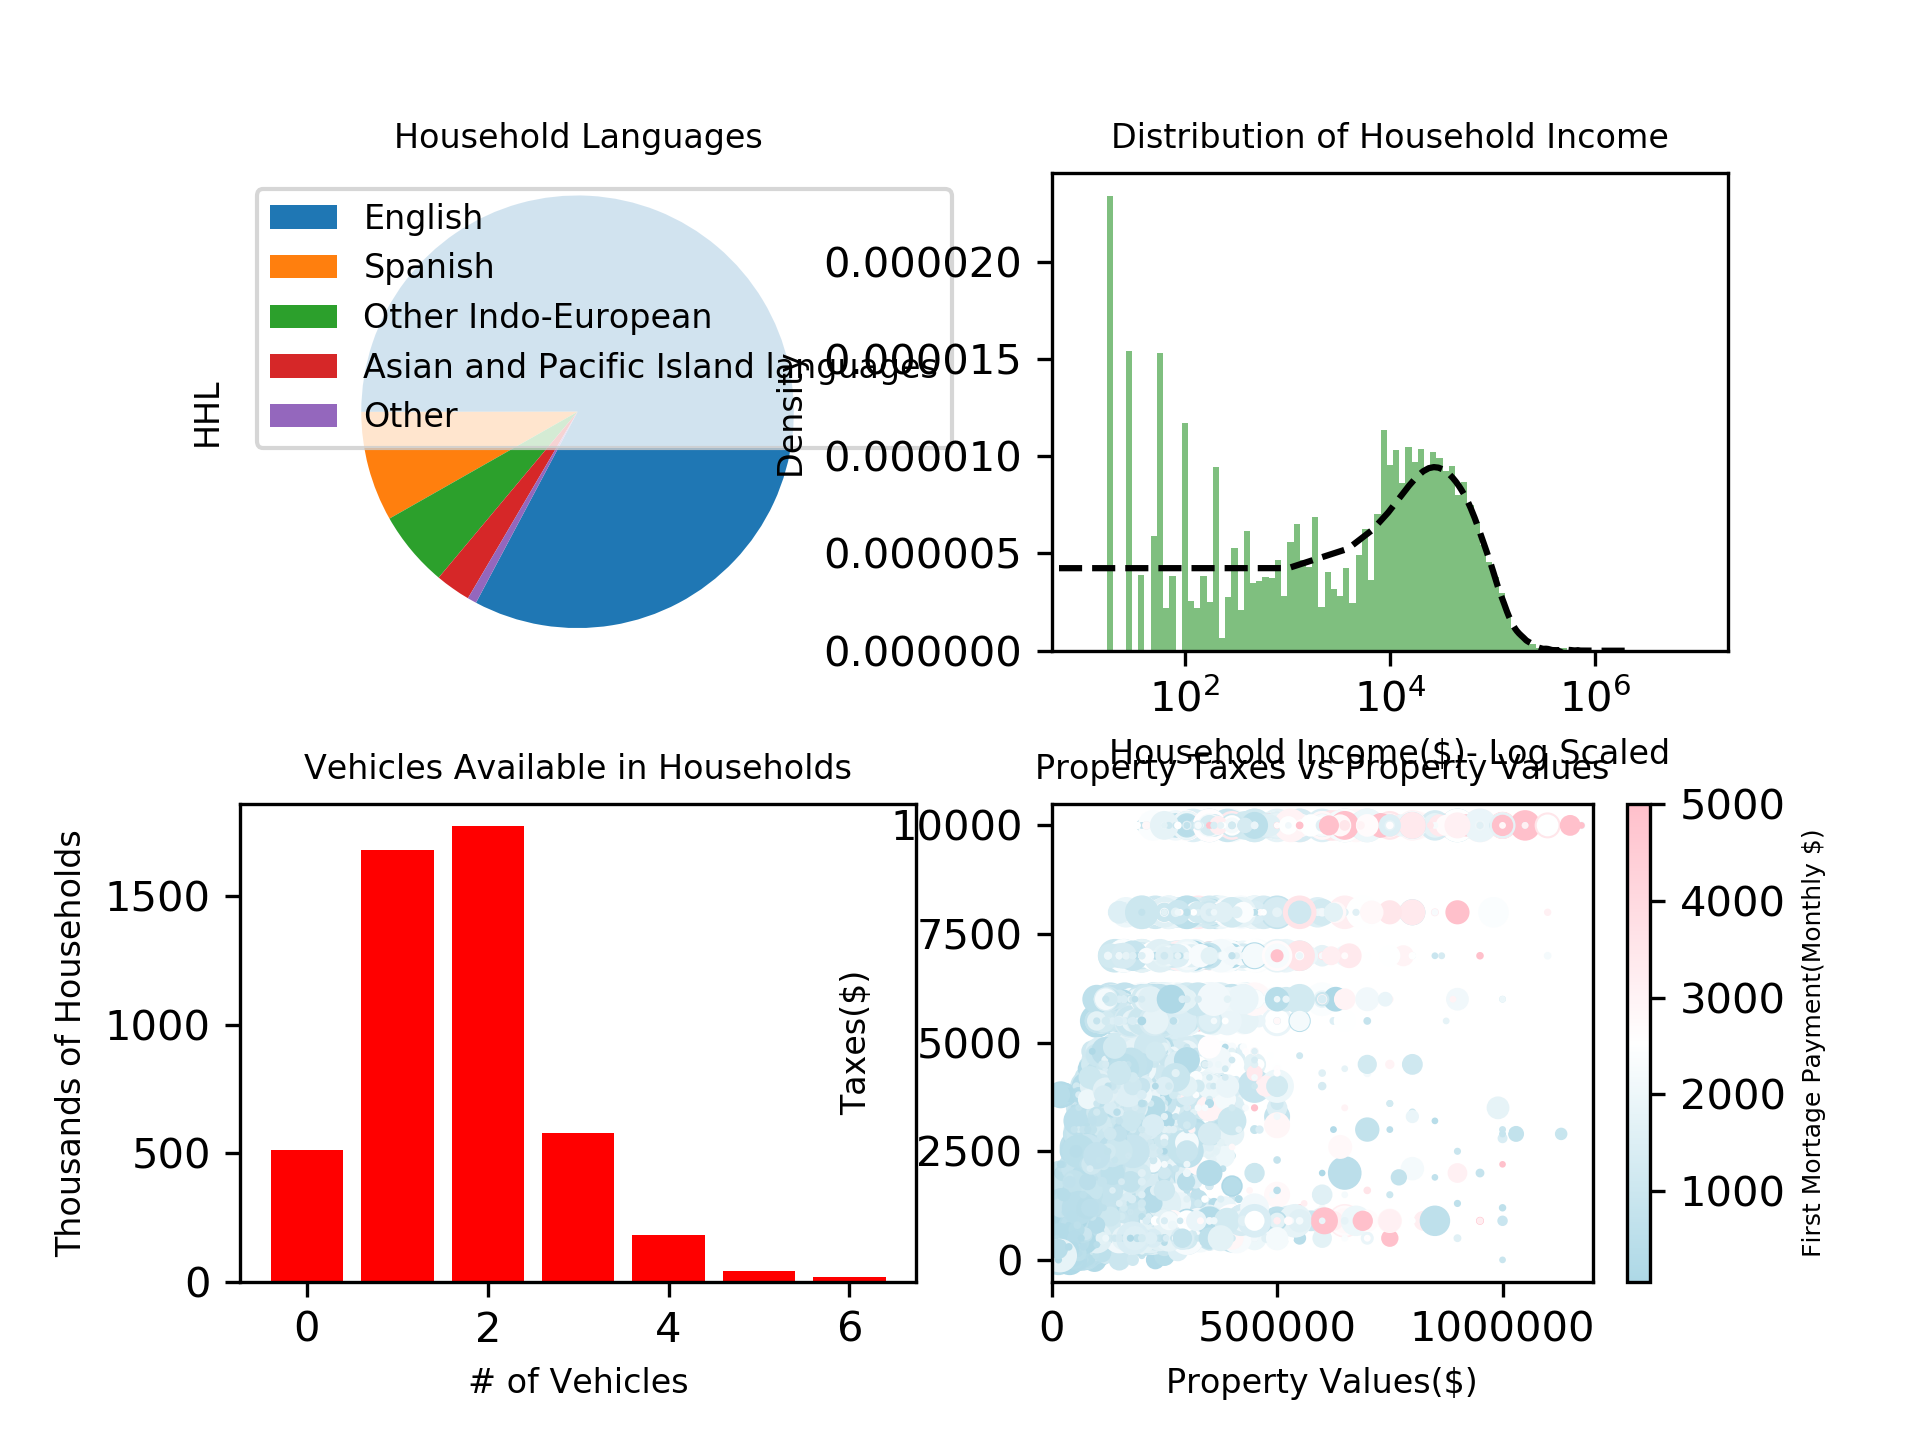
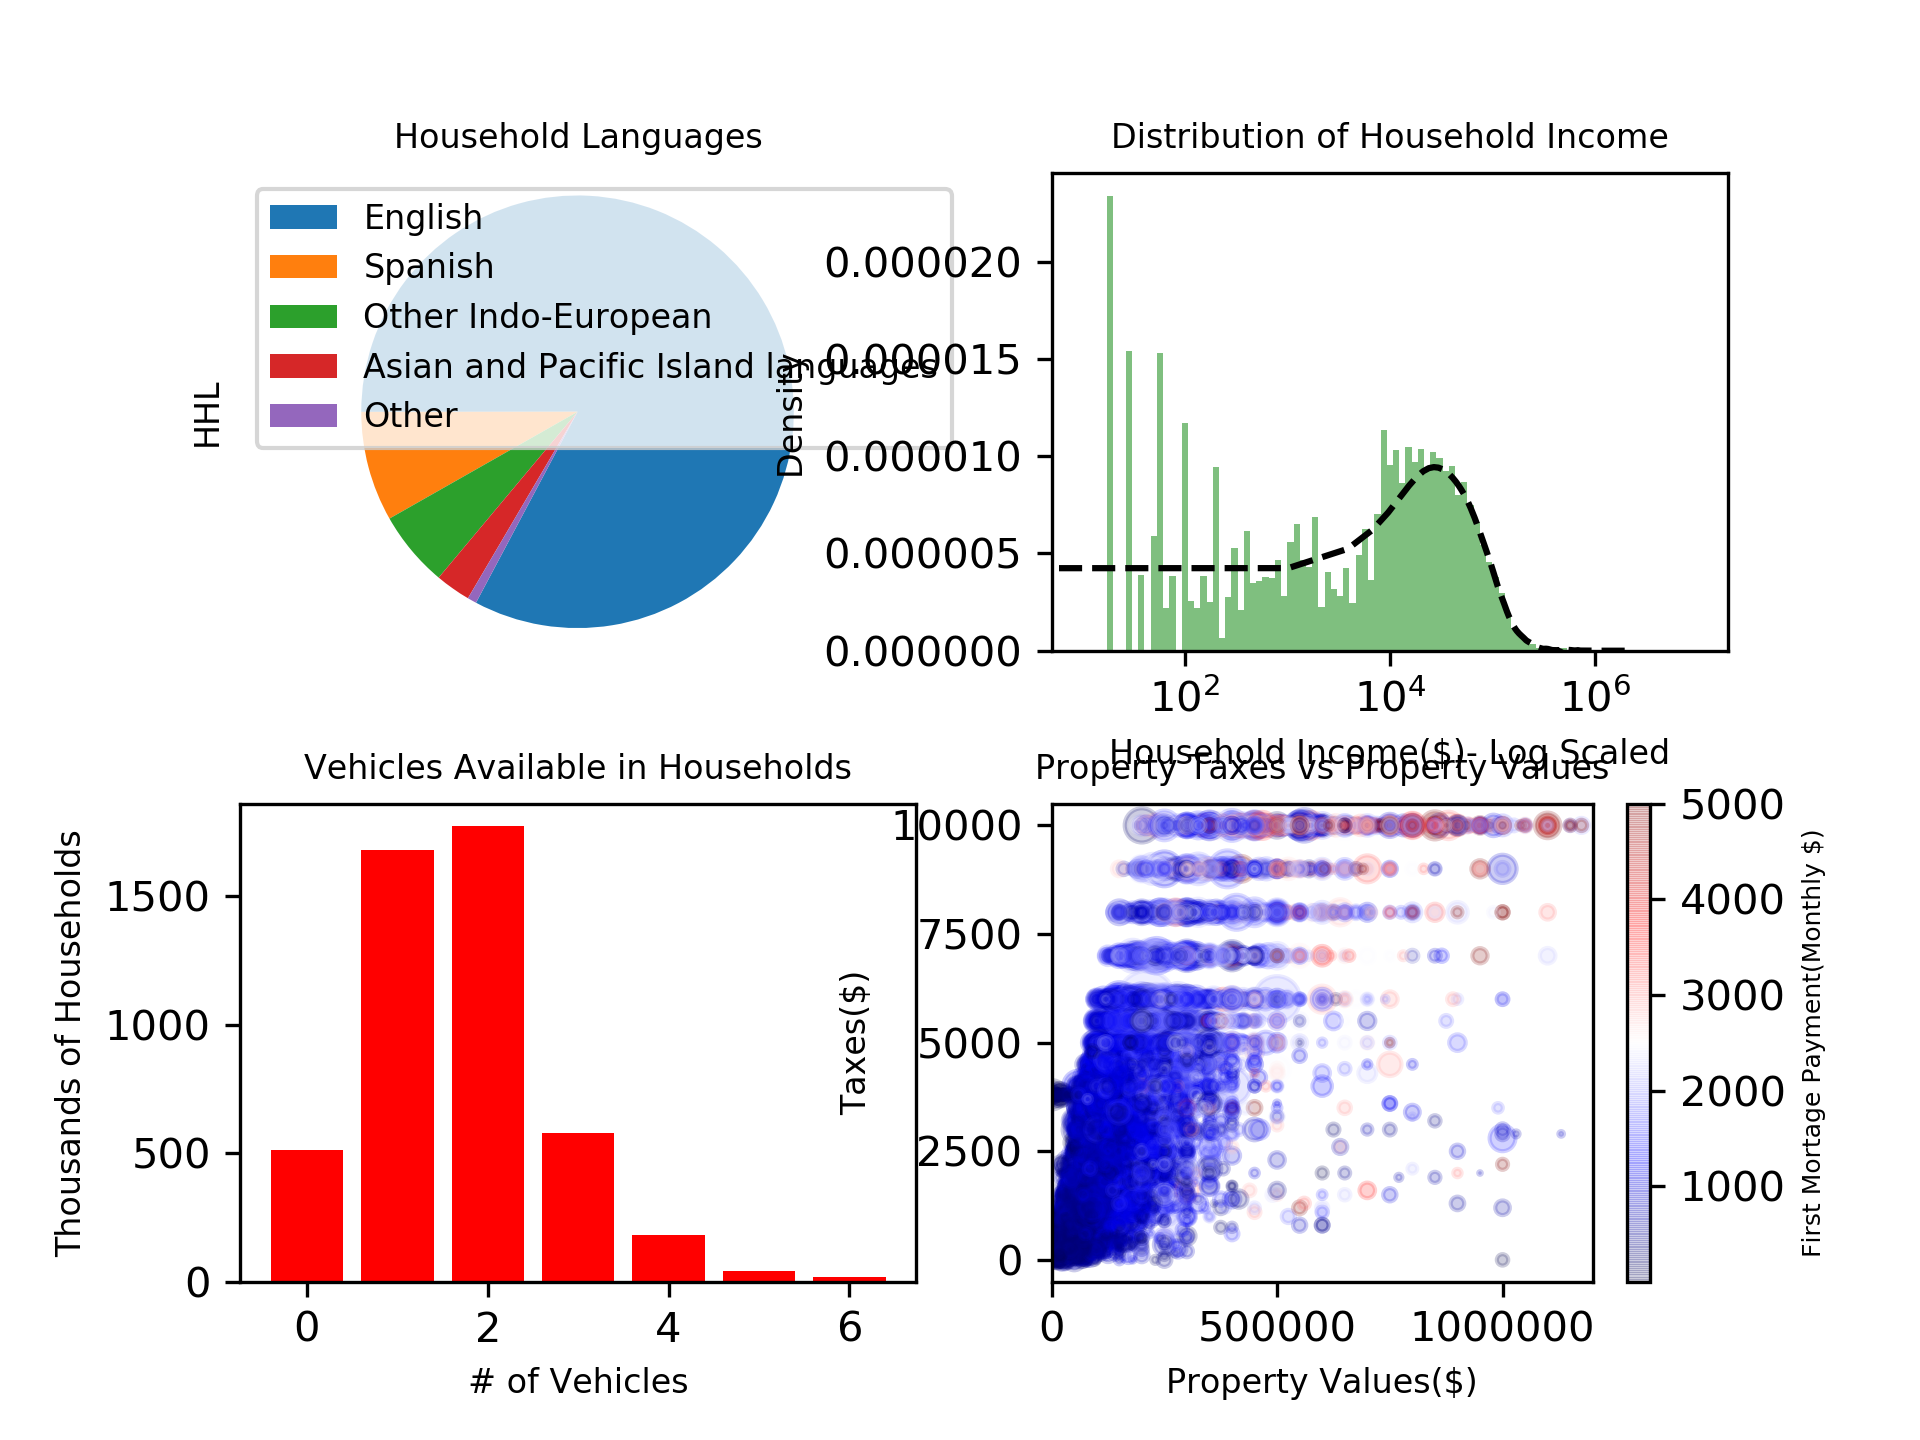
matches output changed WGTP to reduce by ten to match sample

Changed region(s): [[0.5312, 0.5625, 0.9375, 0.9062], [0.8438, 0.75, 0.9375, 0.9062]]

diff --git a/Assignment/vispums.py b/Assignment/vispums.py
@@ -20,7 +20,6 @@ fig, axs = plt.subplots(2, 2)
 
 # Adjust hspace for proper veiwing
 fig.subplots_adjust(hspace=0.32)
-fig.set_size_inches(24,20)
 
 # Upper Left Subplot - Pie Chart contaning num of household records for the different values of HHL Column
 pie_key=['English','Spanish','Other Indo-European','Asian and Pacific Island languages','Other']
@@ -46,7 +45,7 @@ axs[0,1].set_xscale('log')
 # Plot data
 axs[0,1].hist(pums_hist,bins,density=True,facecolor='green',alpha=.5)
 # KDE plot superimposed
-pums_hist.plot(kind='kde',ax=axs[0,1], color ='Black',linestyle='--')
+pums_hist.plot(kind='kde',ax=axs[0,1], color ='k',linestyle='--')
 
 # Lower Left Subplot - Bar Chart of number of households in thousands for each VEH value[drop NaN]
 # Set the title
@@ -79,9 +78,9 @@ for y in range(1,69):
 # Create colormap
 cmap = mpl.colors.LinearSegmentedColormap.from_list("", ["lightblue","white","pink"])
 # Graph Data
-scatter_data = axs[1,1].scatter(pums_scatter.VALP,pums_scatter.TAXP,marker='o',s=pums_scatter.WGTP, c=pums_scatter.MRGP,cmap='seismic',alpha=0.20)
+scatter_data = axs[1,1].scatter(pums_scatter.VALP,pums_scatter.TAXP,marker='o',s=pums_scatter.WGTP/10, c=pums_scatter.MRGP,cmap='seismic',alpha=0.20)
 axs[1,1].set_xlim(0,1200000)
-axs[1,1].set_ylim(0,None)
+
 axs[1,1].ticklabel_format(style='plain')
 # Add color bar and label
 cb = plt.colorbar(scatter_data, format='%li')
